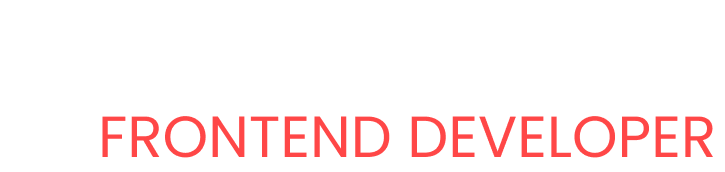
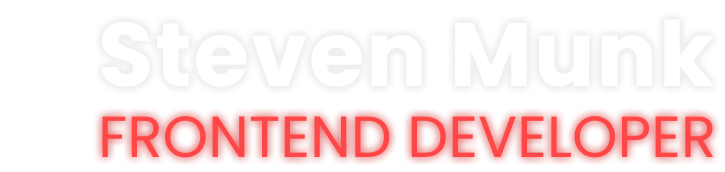
Hero done

Changed region(s): [[0.1214, 0.6395, 1.0, 0.9593]]

diff --git a/src/app/hero-section/hero-section.component.scss b/src/app/hero-section/hero-section.component.scss
@@ -4,13 +4,22 @@
     flex-direction: column;
     justify-content: space-between;
     align-items: center;
-    height: calc(100vh - 110px);
+    min-height: calc(100vh - 110px);
     position: relative;
-    overflow: hidden;
+    overflow-y: hidden;
 }
 
 
-.hero-img {
+.hero-shadow {
+    position: absolute;
+    z-index: -1;
+    top: 0;
+    left: -200px;
+    width: 500px;
+}
+
+
+.hero-vector {
     position: absolute;
     z-index: -1;
     width: 100%;
@@ -21,19 +30,21 @@
     width: 1240px;
     display: flex;
     align-items: center;
-    justify-content: flex-end;
-}
-
-
-.hero-text {
-    display: flex;
+    justify-content: center;
     flex-direction: column;
-    align-items: center;
-    margin-top: 200px;
+    flex-grow: 1;
 
-    a {
-        position: relative;
-        left: 50px;
+    img {
+        width: 100%;
+        max-width: 900px;
+    }
+
+    button {
+        box-shadow: 0 0 5px #FA7902;
+
+        &:hover {
+            box-shadow: 0 0 5px #FF4747;
+        }
     }
 }
 
@@ -109,7 +120,6 @@
     .red-line {
         width: 3vw;
     }
-
 }
 
 
@@ -118,54 +128,44 @@
 
     .hero-section {
         max-width: 90vw;
+
+        img {
+            width: 90%;
+        }
+
+        button {
+            transform: scale(0.85);
+        }
     }
 
 
     .hero-bottom-content {
         max-width: 90vw;
     }
-    
-
-    .hero-section {
-        transform-origin: right;
-        transform: scale(0.8);
-    }
-
-}
-
-
-@media (max-width: 1100px) {
-
-    .hero-section {
-        display: flex;
-        flex-direction: column;
-        align-items: center;
-        justify-content: center;
-        flex-grow: 1;
-        transform: scale(1);
-    }
-
 }
 
 
 /* iPad & Tablet */
 @media (max-width: 768px) {
 
-    .hero-img {
-        top: 25%;
+    .hero-vector {
+        top: 30%;
     }
 
 
-    .hero-text {
-        margin-top: 70%;
+    .hero-section {
+        justify-content: flex-end;
+        padding-bottom: 10vh;
+    }
 
-        img {
-            width: 90vw;
-        }
 
-        a {
-            left: 0px;
-        }
+    .profile-pic {
+        width: 60% !important;
+        margin-bottom: 10vh;
+        border: 2px solid #FA7902;
+        border-radius: 100%;
+        box-shadow: #FA7902 0 0 10px;
+        background-color: #141D2F;
     }
 
 
@@ -173,7 +173,7 @@
         font-size: 21px;
         width: 150px;
         height: 50px;
-        margin-top: 20px;
+        margin-top: 15px;
     }
 
 
@@ -192,5 +192,4 @@
     .hero-bottom-content {
         justify-content: center;
     }
-
 }

diff --git a/src/app/portfolio/portfolio.component.ts b/src/app/portfolio/portfolio.component.ts
@@ -12,7 +12,7 @@ export class PortfolioComponent {
       name: 'Join',
       foundation: 'Angular | TypeScript | HTML | CSS | Firebase',
       description: 'Task manager inspired by the Kanban System. Create and organize tasks using drag and drop functions, assign users and categories.',
-      img: 'assets/imgs/join_img.png',
+      img: '../assets/imgs/join_img.png',
       github:'https://github.com/Icetune/Join',
       liveTest:'#',
       imgLeft: true
@@ -23,7 +23,7 @@ export class PortfolioComponent {
       description: 'simple Jump-and-Run game based on an object-oriented approach. Help pepe to defeat fred the crazy chicken.',
       img: '../assets/imgs/el_pollo_loco_img.png',
       github:'https://github.com/Icetune/Pollo-Loco',
-      liveTest:'https://steven-munk.developerakademie.net/El%20Pollo%20Loco/index.html',
+      liveTest:'https://steven-munk.de/El%20Pollo%20Loco/index.html',
       imgLeft: false
     },
     {
@@ -41,7 +41,7 @@ export class PortfolioComponent {
       description: 'Based on the PokéAPI a simple library that provides and catalogues pokemon information.',
       img: '../assets/imgs/pokedex_img.png',
       github:'https://github.com/Icetune/PokeDex',
-      liveTest:'https://steven-munk.developerakademie.net/Pokedex/index.html',
+      liveTest:'https://steven-munk.de/PokeDex/index.html',
       imgLeft: false
     },
     {
@@ -50,7 +50,7 @@ export class PortfolioComponent {
       description: 'A drinking game where you and your friends can pull cards of a stable, each card provides a different drinking task.',
       img: '../assets/imgs/placeholder_profile.png',
       github:'https://github.com/Icetune/Ring-of-Fire',
-      liveTest:'#',
+      liveTest:'https://steven-munk.de/ringoffire/index.html',
       imgLeft: true
     },
   ];

diff --git a/src/app/hero-section/hero-section.component.html b/src/app/hero-section/hero-section.component.html
@@ -1,18 +1,18 @@
 <div class="hero-container">
 
-    <img class="hero-img" data-aos="zoom-out" src="../assets/imgs/test-vector.png">
+    <img class="hero-shadow only-desktop" data-aos="fade-right" src="../assets/imgs/photo_shadows.png">
+
+    <img class="hero-vector" data-aos="zoom-out" src="../assets/imgs/wave_vector.png">
 
     <div class="hero-section">
 
-        <div class="hero-text">
+        <img class="profile-pic only-mobile" data-aos="zoom-in" src="../assets/imgs/profile_pic.png">
 
-            <img data-aos="fade-right" src="../assets/imgs/i_am.png">
+        <img data-aos="fade-right" src="../assets/imgs/i_am.png">
 
-            <a href="#contactAnker" data-aos="fade-left">
-                <button> Let's talk! </button>
-            </a>
-
-        </div>
+        <a href="#contactAnker" data-aos="fade-left">
+            <button> Let's talk! </button>
+        </a>
 
     </div>
 
@@ -25,8 +25,12 @@
             <div class="hero-bottom-left">
 
                 <a href="https://github.com/Icetune" target="_blank"><img src="../assets/imgs/github_logo.png"></a>
-                <a href="mailto:s.f.munk@gmx.de" target="_blank"target="_blank"><img src="../assets/imgs/mail_logo.png"></a>
-                <a href="https://www.linkedin.com/in/steven-munk-454785264/" target="_blank"><img src="../assets/imgs/linked_in_logo.png"></a>
+
+                <a href="mailto:s.f.munk@gmx.de" target="_blank" target="_blank"><img
+                        src="../assets/imgs/mail_logo.png"></a>
+
+                <a href="https://www.linkedin.com/in/steven-munk-454785264/" target="_blank"><img
+                        src="../assets/imgs/linked_in_logo.png"></a>
 
                 <span class="only-desktop">s.f.munk@gmx.de</span>
 

diff --git a/src/app/about-me/about-me.component.html b/src/app/about-me/about-me.component.html
@@ -40,7 +40,7 @@
 
         <div class="about-me-imgbox only-desktop" data-aos="fade-left">
 
-            <img class="profile-pic" src="../assets/imgs/test-profile-pic.png">
+            <img class="profile-pic" src="../assets/imgs/am_test.png">
             <img class="orange-profile-line" src="../assets/imgs/orange_profile_line.png">
         
         </div>

diff --git a/src/app/contact/contact.component.ts b/src/app/contact/contact.component.ts
@@ -46,8 +46,9 @@ export class ContactComponent {
       messageField.disabled = false;
       sendButton.disabled = false;
     }, 4000);
+    
 
-    await fetch('https://steven-munk.developerakademie.net/send_mail/send_mail.php',
+    await fetch('https://steven-munk.de/send_mail/send_mail.php',
       {
         method: 'POST',
         body: fd

diff --git a/src/app/about-me/about-me.component.scss b/src/app/about-me/about-me.component.scss
@@ -96,6 +96,7 @@
     width: 100%;
     border-radius: 100%;
     border: 4px solid rgb(250, 121, 2);
+    background-color: #1C273B;
     object-fit: cover;
 }
 
